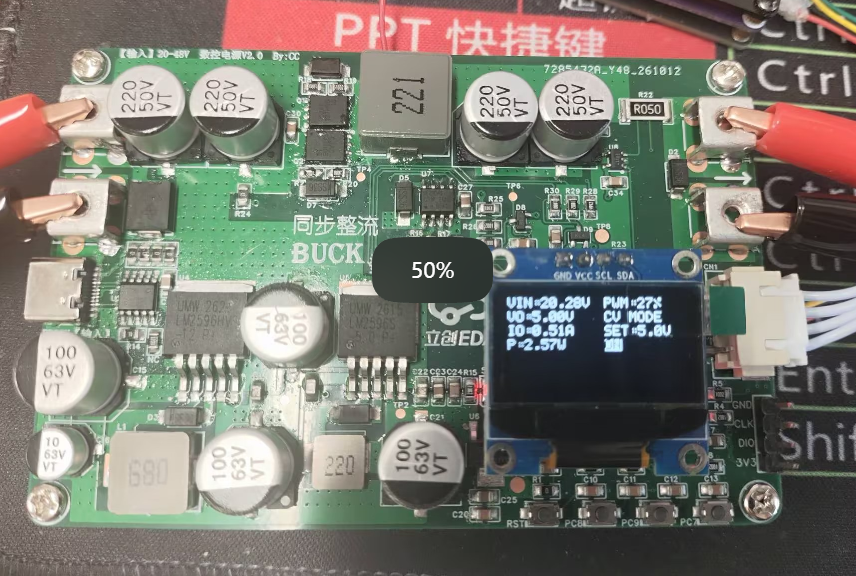
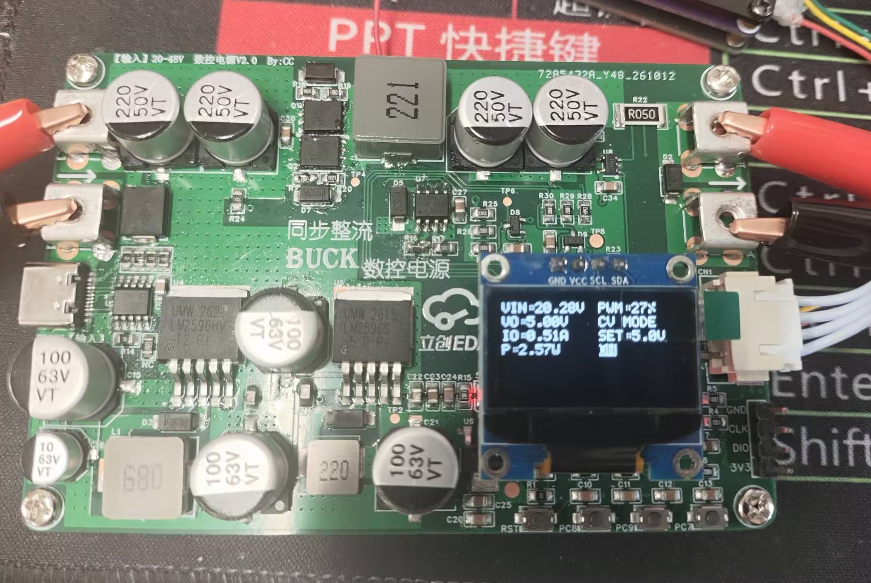
增加实物图

diff --git a/README.md b/README.md
@@ -367,8 +367,8 @@ u(k)=K_Pe(k)+K_I\sum_{i=0}^{k}e(i)
 
 ## 12. 实物图
 
-![alt text](板子实物图.jpg)
-![alt text](串口屏界面.jpg)
+![alt text](板子实物图.png)
+![alt text](串口屏界面.png)
 
 ## 13. 总结
 
